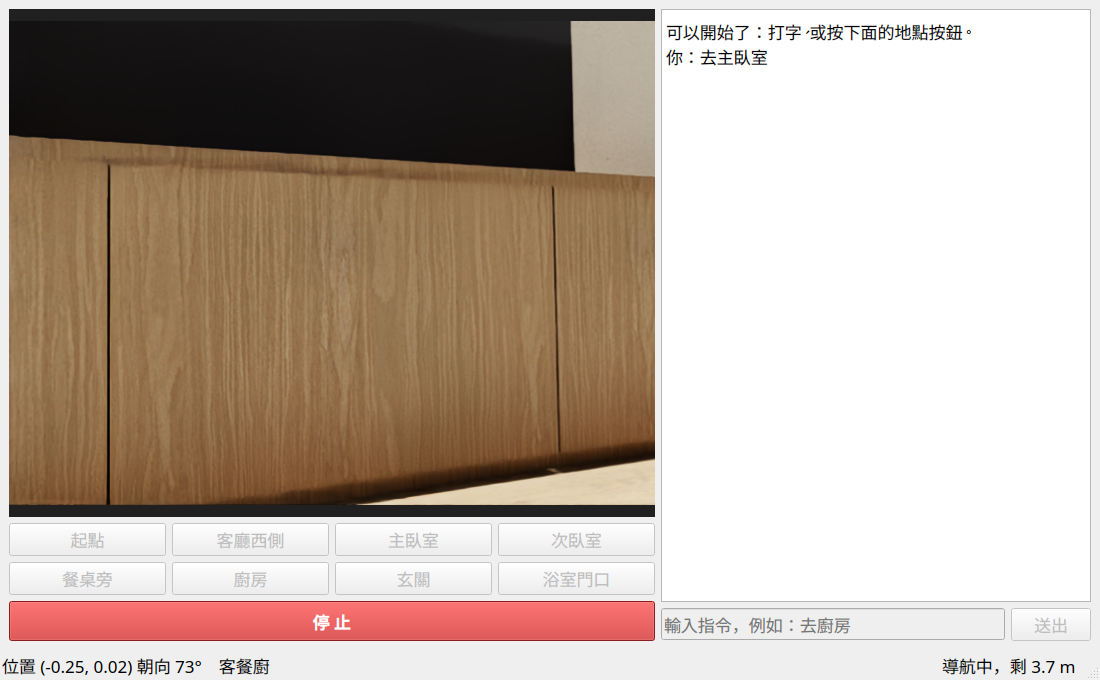
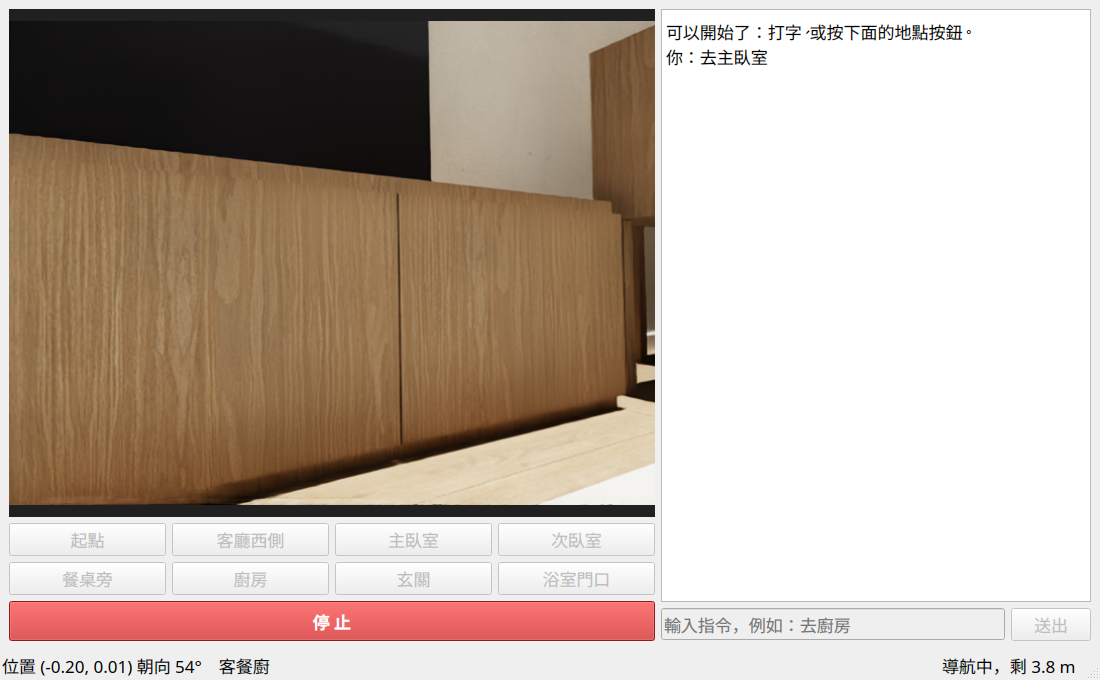
Review fixes: a Stop holds for the whole command, closing does not wait for the model
- cancel() now refuses every navigation until the next command starts: a model that asks for the next leg
  after a canceled one no longer makes the dog walk again, and nothing can be sent after the window closes
- once shutdown has begun, the running command ends at its next tool result instead of going back to Gemini

Live check 5/5 with the final code; closing in mid-navigation takes 0.2 s.

diff --git a/robot_dog_agent/test/test_session.py b/robot_dog_agent/test/test_session.py
@@ -229,3 +229,47 @@ def test_shutdown_while_starting_does_not_wait_for_nav2():
     session.start(FakeRobot, lambda robot, **kw: FakeAgent())       # never runs: still "waiting for Nav2"
     assert session.state == 'starting'
     assert session.shutdown() is False and waited == [0.5]         # nothing to wait for: no goal was ever sent
+
+
+# --- final review: a Stop holds for the whole command ---
+
+def test_stop_holds_for_every_step_of_the_command():
+    robot, steps = CountingRobot(), []
+
+    def two_legs():                                  # a model that carries on after the first leg was canceled
+        session.stop()
+        steps.append(robot.go_to(2.5, -0.6, 0.0).status)
+        steps.append(robot.go_to(-2.0, -0.9, 0.0).status)
+        return '好'
+
+    session, _, _, _, _ = started([two_legs, lambda: robot.go_to(1.0, 0.0, 0.0).status], robot=robot)
+    session.submit('先去廚房，再去玄關')
+    assert steps == ['canceled', 'canceled'] and robot.goals == []
+    events = []
+    session.on_event = lambda kind, text: events.append((kind, text))
+    session.submit('往前')                            # the next command starts clean
+    assert ('reply', 'reached') in events
+
+
+def test_nothing_moves_after_shutdown():
+    session, _, robot, _, _ = started()
+    session.shutdown()
+    assert robot.go_to(1.0, 0.0, 0.0).status == 'canceled' and robot.goals == []
+
+
+def test_a_command_ends_at_its_next_tool_result_once_shutdown_has_begun():
+    # closing the window must not wait for the model to answer the canceled step (it may be slow or rate limited)
+    pending, asked_again = [], []
+    session, events, _, agent, callbacks = started(run=lambda fn: (pending.append(fn), StuckJob())[1])
+
+    def one_step():
+        callbacks['on_call'](None, {'status': 'canceled'})      # the navigation came back canceled
+        asked_again.append(True)                                 # ...and the agent would now go back to the model
+        return '好'
+
+    agent.answers = [one_step]
+    session.submit('去起點')
+    assert session.shutdown(timeout=0.01) is False              # the worker has not got that far yet
+    pending[0]()
+    assert asked_again == [] and not [e for e in events if e[0] == 'reply']
+    assert session.state == 'idle'

diff --git a/robot_dog_agent/robot_dog_agent/session.py b/robot_dog_agent/robot_dog_agent/session.py
@@ -22,6 +22,10 @@ STARTING_WAIT = 0.5  # s that shutdown waits for a start-up that is still under 
 STATUS = {'starting': '等 Nav2 啟動…', 'idle': '待命', 'busy': '處理中…', 'failed': '啟動失敗'}
 
 
+class Closing(BaseException):
+    """Raised into a running command once shutdown has begun, to end it without another round with the model."""
+
+
 def in_thread(fn):
     """Run fn in a daemon thread; the thread is the job (join, is_alive)."""
     thread = threading.Thread(target=fn, daemon=True)
@@ -44,6 +48,7 @@ class Session:
         self.on_event = lambda kind, text: None
         self.state, self.remaining, self.robot = 'starting', None, None  # remaining: m left of the navigation
         self._agent, self._job, self._run = None, None, run or in_thread
+        self._closing = False
 
     def _set_state(self, state):
         self.state = state
@@ -74,6 +79,8 @@ class Session:
 
     def _tool_done(self, call, result):
         self.remaining = None
+        if self._closing:  # the robot is stopped and refuses new goals; nobody will read the model's answer
+            raise Closing()
 
     def submit(self, text):
         """Start a command; False when there is nothing to send or the session is not idle."""
@@ -119,6 +126,7 @@ class Session:
     def shutdown(self, timeout=10.0):
         """Cancel, wait for the background job and close the robot. False when the job did not end in time
         (still waiting for Nav2): the robot is then left alone, and the caller should end the process."""
+        self._closing = True
         if self.robot is not None:
             self.robot.cancel()
         if self._job is not None:

diff --git a/robot_dog_agent/robot_dog_agent/nav2_robot.py b/robot_dog_agent/robot_dog_agent/nav2_robot.py
@@ -51,10 +51,11 @@ class Nav2Robot:
             raise
 
     def cancel(self):
-        """From any thread: end the navigation under way, or the next one before it starts."""
+        """From any thread: end the navigation under way and refuse every one after it, until clear_cancel()."""
         self._cancel.set()
 
     def clear_cancel(self):
+        """The robot may move again (the window calls this when the next command starts)."""
         self._cancel.clear()
 
     def pose(self, wait=POSE_WAIT):
@@ -96,8 +97,7 @@ class Nav2Robot:
         """Send a task with send() -> accepted and wait for it to end; the NavResult counts sim time from t0."""
         nav = self.node
         nav.feedback = None  # BasicNavigator keeps the last task's feedback, which may be of another type
-        if self._cancel.is_set():  # canceled before it started (Stop while waiting for the model)
-            self._cancel.clear()
+        if self._cancel.is_set():  # Stop came before this started: while waiting for the model, or a step ago
             return NavResult('canceled', CANCELED, sim_seconds(nav) - t0)
         if not send():
             return NavResult('failed', 'Nav2 rejected the goal', sim_seconds(nav) - t0)
@@ -105,7 +105,6 @@ class Nav2Robot:
         try:
             while not nav.isTaskComplete():
                 if ended is None and self._cancel.is_set():
-                    self._cancel.clear()
                     ended = ('canceled', CANCELED)
                     nav.cancelTask()
                 if ended is None and sim_seconds(nav) - t0 > self.timeout:

diff --git a/robot_dog_agent/robot_dog_agent/robot.py b/robot_dog_agent/robot_dog_agent/robot.py
@@ -4,9 +4,9 @@ A robot has
     pose() -> (x, y, yaw) in the map frame; raises RuntimeError when it is not known
     go_to(x, y, yaw, on_progress=None) -> NavResult; blocks until the navigation ends and calls
         on_progress(distance_remaining) now and then on the way
-    cancel(); from any thread: ends the navigation under way as 'canceled', or, when there is none, makes the
-        next go_to return 'canceled' without moving. One cancel ends one navigation.
-    clear_cancel(); forgets a cancel that has not been used
+    cancel(); from any thread: ends the navigation under way as 'canceled', and every go_to after it returns
+        'canceled' without moving, until clear_cancel(). It must hold: a model may ask for the next step anyway
+    clear_cancel(); the robot may move again (the start of the next command)
     close()
 nav2_robot.Nav2Robot is the real one.
 """
@@ -53,7 +53,6 @@ class FakeRobot:
 
     def go_to(self, x, y, yaw, on_progress=None):
         if self._cancel:
-            self._cancel = False
             return NavResult('canceled', CANCELED, 0.0)
         self.goals.append((x, y, yaw))
         self.progress_callbacks.append(on_progress)

diff --git a/robot_dog_agent/test/test_tools.py b/robot_dog_agent/test/test_tools.py
@@ -102,12 +102,14 @@ def test_turn_in_place_is_a_target_on_the_spot():
 
 # --- plan 6: cancel from another thread ---
 
-def test_fake_robot_cancel_stops_the_next_navigation_once():
+def test_fake_robot_cancel_holds_until_it_is_cleared():
     robot = FakeRobot()
     robot.cancel()
     assert robot.go_to(1.0, 0.0, 0.0) == NavResult('canceled', 'canceled by the user', 0.0)
+    assert robot.go_to(2.0, 0.0, 0.0).status == 'canceled'           # a model that tries the next step anyway
     assert robot.goals == [] and robot.pose() == (0.0, 0.0, 0.0)
-    assert robot.go_to(1.0, 0.0, 0.0).status == 'reached'            # one cancel, one navigation
+    robot.clear_cancel()
+    assert robot.go_to(1.0, 0.0, 0.0).status == 'reached'
 
 
 def test_fake_robot_clear_cancel():

diff --git a/robot_dog_agent/test/test_agent.py b/robot_dog_agent/test/test_agent.py
@@ -109,3 +109,17 @@ def test_conversation_is_reset_after_ctrl_c_in_a_tool():
     with pytest.raises(KeyboardInterrupt):
         Agent(llm, RecordingToolbox(error=KeyboardInterrupt())).ask('去廚房')
     assert llm.resets == 1
+
+
+def test_an_on_call_that_raises_ends_the_command_and_resets():
+    class Closing(BaseException):
+        pass
+
+    def on_call(call, result):
+        raise Closing()
+
+    llm = ScriptedLLM([Reply('', [KITCHEN, START])])
+    box = RecordingToolbox()
+    with pytest.raises(Closing):
+        Agent(llm, box, on_call=on_call).ask('先去廚房，再回起點')
+    assert box.calls == [('go_to_place', {'place': 'kitchen'})] and len(llm.sent) == 1 and llm.resets == 1

diff --git a/robot_dog_agent/robot_dog_agent/gui.py b/robot_dog_agent/robot_dog_agent/gui.py
@@ -191,7 +191,8 @@ def main(argv=None):
     app.exec_()
     window.close()  # no-op when the user closed it; needed when the event loop ended another way
     if not window.clean_shutdown:
-        # the start-up thread is still waiting for Nav2 and cannot be interrupted; no goal was ever sent
+        # a background thread would not end: the start-up still waiting for Nav2 (nothing was ever sent), or a
+        # command still waiting for the model (the robot refuses every goal after the cancel that shutdown set)
         os._exit(1)
     if feed is not None:
         feed.close()

diff --git a/docs/superpowers/specs/2026-11-11-agent-gui-design.md b/docs/superpowers/specs/2026-11-11-agent-gui-design.md
@@ -98,16 +98,19 @@ robot_dog_agent/robot_dog_agent/
 - `submit(text) -> bool`：空白、或狀態不是 `idle` 時回 `False`，什麼都不做。否則狀態 `busy`、送 `user` 事件、
   `robot.clear_cancel()`，在背景跑 `agent.ask(text)`，結束後送 `reply`（或 `error`）並回到 `idle`。
 - `stop()`：狀態是 `busy` 時呼叫 `robot.cancel()`。
-- `shutdown()`：`robot.cancel()`，等背景工作結束（最多 10 秒），`robot.close()`。背景工作沒有在期限內結束時回 `False`
+- `shutdown()`：`robot.cancel()`，等背景工作結束（指令執行中最多 10 秒；還在啟動時只等 0.5 秒），`robot.close()`。背景工作沒有在期限內結束時回 `False`
   （例如還卡在等 Nav2）；這時 `main` 直接結束行程，因為沒有送出過目標，沒有東西要收。
 - `state`：`starting`、`idle`、`busy`、`failed`。`remaining`：導航中最近一次回報的剩餘距離，工具呼叫結束時清掉。
 - 事件 `on_event(kind, text)`，`kind` 是 `user`、`log`（工具呼叫那一行和 Gemini 重試的提示）、`reply`、`error`、`state`。
   錯誤的處理和 `run_chat` 相同：`GeminiError` 印訊息，其他例外只印類別名稱。
 
 機器人介面的取消：
-- `cancel()`：可從任何執行緒呼叫。有導航在進行 → 取消它，`go_to` 回 `canceled`。沒有導航在進行 → 記住，下一次
-  `go_to` 不送目標、直接回 `canceled`（用在「正在等 Gemini 回覆時按了停止」）。
-- `clear_cancel()`：忘掉還沒用到的取消。每個指令開始時呼叫，上一個指令留下的取消不會影響下一個。
+- `cancel()`：可從任何執行緒呼叫。有導航在進行 → 取消它，`go_to` 回 `canceled`。**之後每一次 `go_to` 也都不送目標、
+  直接回 `canceled`，直到 `clear_cancel()`。** 取消必須持續有效：多步指令（「先去廚房，再去玄關」）的第一段被取消後，
+  模型不一定會照指示停下，可能接著要求第二段；如果取消只生效一次，狗就會在按了停止之後又走起來。
+  也涵蓋「正在等 Gemini 回覆時按了停止」：下一個導航動作不會送出。
+- `clear_cancel()`：機器人可以再動。每個指令開始時（`submit`）呼叫。`shutdown` 設下的取消永遠不清，所以關視窗之後
+  不會再有新的目標送出。
 - `canceled` 之後，`Agent` 原本就會跳過同一輪剩下的工具呼叫，並把結果送回 Gemini。
 - 終端機版的 Ctrl+C（`KeyboardInterrupt`）行為不變。
 
@@ -164,19 +167,31 @@ robot_dog_agent/robot_dog_agent/
 
 ## 10. 結果（2026-11-11）
 
-- 測試 116 個全部通過（原有 68 個加上新增的 48 個；視窗測試用 Qt offscreen）。
-- 實機檢查（第 7 節，`--headless`、開相機、定位模式、`gemini-3.5-flash-lite`）5/5：
-  1. 0.2 秒出現相機畫面，2.4 秒變成「待命」。相機話題實測每秒 8.9 張。
-  2. 按「主臥室」：停在 0.03 m 內，途中兩張畫面不同。
-  3. 按「次臥室」後 5 秒按「停止」：0.1 秒內對話區出現 `canceled`，5.8 秒後回到「待命」，之後 3 秒移動 0.001 m。
-  4. 狀態列的位置和真值差 0.033 m，區域正確。
-  5. 導航途中關視窗：3.7 秒關閉完成；之後 Nav2 的目標狀態是成功、已取消、已取消，沒有執行中的；真值位置 3 秒內移動 0.004 m。
+- 測試 120 個全部通過（原有 68 個加上新增的 52 個；視窗測試用 Qt offscreen）。
+- 實機檢查（第 7 節，`--headless`、開相機、定位模式、`gemini-3.5-flash-lite`）用最後的程式 5/5：
+  1. 0.4 秒出現相機畫面，3.5 秒變成「待命」。相機話題實測每秒 8.9 張。
+  2. 按「主臥室」：停在 0.02 m 內，途中兩張畫面不同。
+  3. 按「次臥室」後 5 秒按「停止」：0.1 秒內對話區出現 `canceled`，6.1 秒後回到「待命」，之後 3 秒移動 0.008 m。
+  4. 狀態列的位置和真值差 0.055 m，區域正確。
+  5. 導航途中關視窗：0.2 秒關閉完成；之後 Nav2 的目標狀態是成功、已取消、已取消，沒有執行中的；真值位置 3 秒內移動 0.009 m。
 - Nav2 沒開時啟動視窗（隔離的 ROS domain）：按 Ctrl+C 或關視窗，都在 1 秒內結束，沒有 traceback。
 - `--no-robot`：按「廚房」有回覆，狀態列顯示 `位置 (2.50, -0.60) 朝向 -90°　客餐廚`。
 
+三輪實機檢查的經過：
+
+| 輪 | 結果 | 說明 |
+|---|---|---|
+| 1 | 5/5 | 審查前。關視窗花 3.7 秒（在等 Gemini 回覆取消的結果） |
+| 2 | 4/5 | 取消改成持續有效之後。第 5 項：狗有停下、目標已取消，但關視窗等滿 10 秒還沒等到 Gemini → 改成不等（下面第三點） |
+| 3 | 5/5 | 關視窗 0.2 秒 |
+
 和設計不同的地方：
 
+- **取消改成在整個指令內持續有效**（第 4 節已更新）。原本寫「一次取消只生效一次」；獨立審查指出多步指令被取消後，
+  模型若接著要求下一步，狗會再走起來，關視窗時甚至會留下沒人看著的目標。
 - 事件種類把工具呼叫和 Gemini 的提示合併成 `log`（第 4 節已更新）。
-- 還在等 Nav2 時關視窗，只等 0.5 秒就結束行程（原本寫 10 秒）：那條執行緒打斷不了，而且還沒送出過目標。
-- 第 7 節第 3 項的「10 秒內回到待命」包含把取消結果送回 Gemini 的時間，實測 5.8 秒；Gemini 忙線重試時會更久，
+- **關視窗不等 Gemini**：`shutdown` 開始後，進行中的指令在下一個工具結果回來時就直接結束，不再把結果送回 Gemini
+  （那個回覆沒有人會看）。如果當下正卡在等 Gemini 的請求裡，最多等 10 秒後結束行程；這時狗已經停下，而且不會再接受新目標。
+- 還在等 Nav2 時關視窗，只等 0.5 秒就結束行程：那條執行緒打斷不了，而且還沒送出過目標。
+- 第 7 節第 3 項的「10 秒內回到待命」包含把取消結果送回 Gemini 的時間，實測 4.5～6.1 秒；Gemini 忙線重試時會更久，
   但狗在 0.1 秒內就已經取消。
